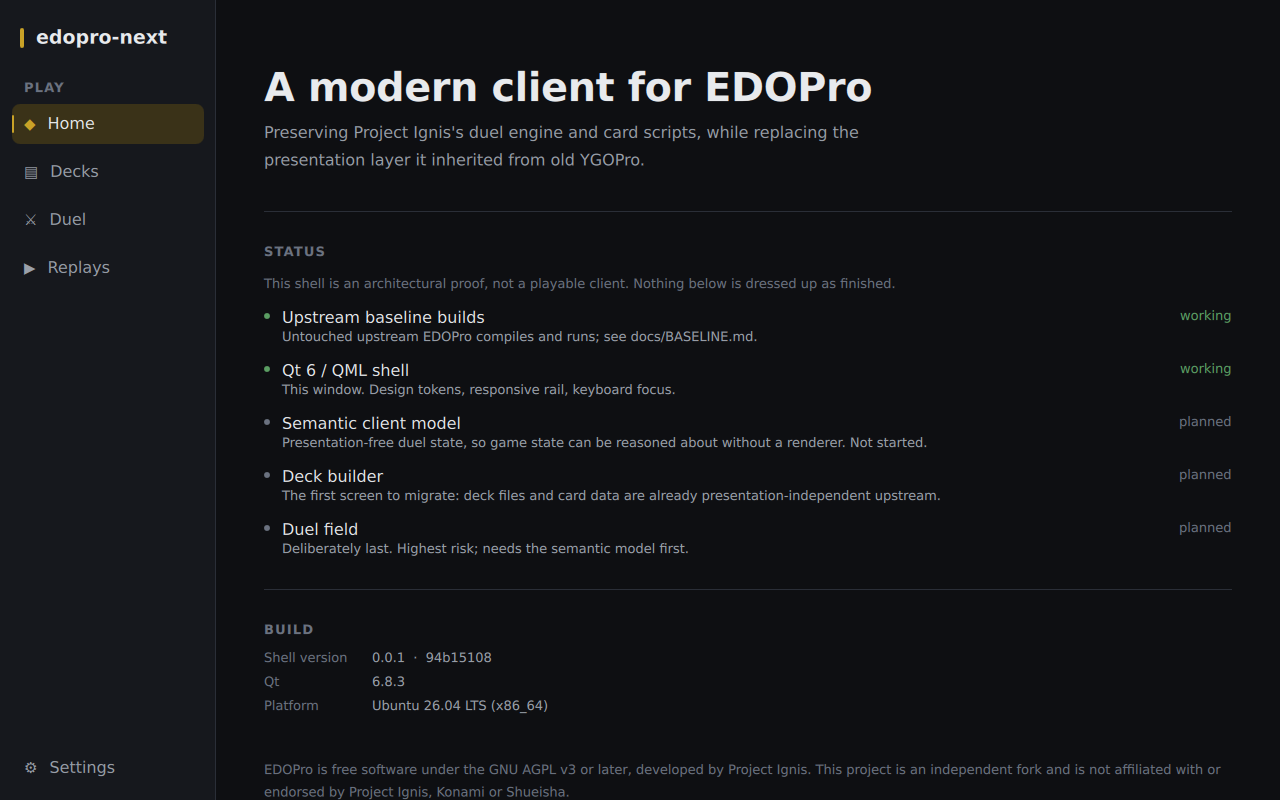
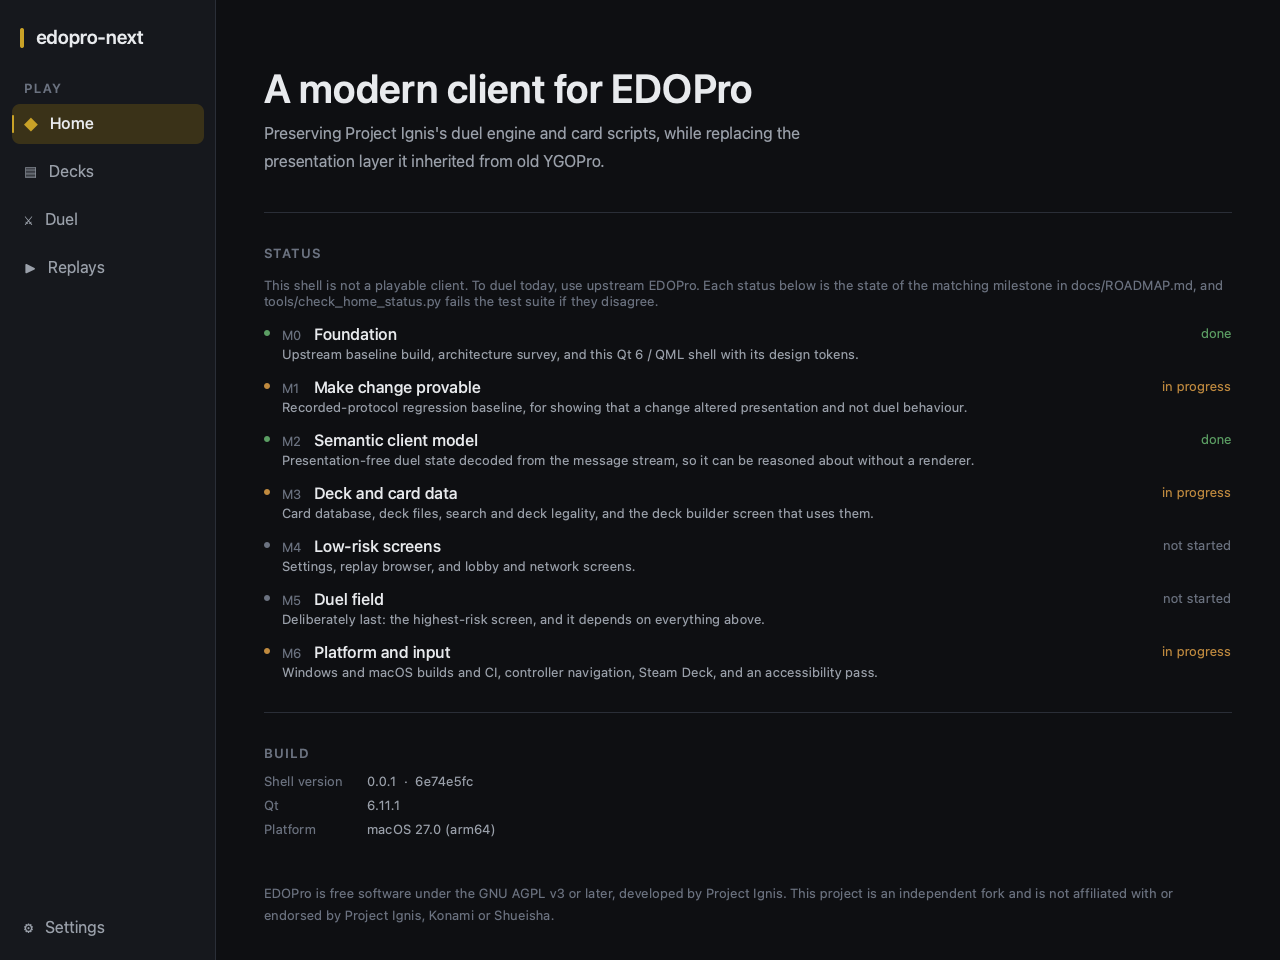
docs: replace the stale shell screenshot and say what it shows
shell.png is a real --capture of the current shell (build 6e74e5fc), whose
home screen now shows one roadmap-checked row per milestone. capabilities.md
drops the caveat about the old stale screen, says what the image is and what
checks the QML behind it, and states the M6 local-build vs CI split.

diff --git a/docs/capabilities.md b/docs/capabilities.md
@@ -27,23 +27,27 @@ Nothing here is rounded up.
 | Real upstream `.ydk` interoperability proof | ✅ **Working** | a `.ydk` from this project's own `save_ydk()` loads through the real, preserved `DeckManager::LoadDeckFromFile()`, against synthetic committed-safe data; format/loader level only, not upstream's GUI or file-picker path — [design](architecture/ydk-interoperability.md) |
 | Deck builder UI | 🔶 **Core working** | search, explicit Main/Extra/Side editing, `.ydk` open/save, over a tested Qt adapter; no legality, no artwork, no full keyboard/controller parity — [design](architecture/deck-builder-ui.md) |
 | Duel field | ⬜ Not started | deliberately last |
-| Windows / macOS builds | 🔶 **Built locally, not in CI** | Windows 11 / MSVC: all four modules (`client/`, `data/`, `policy/`, `ui/`) configure, build under `-DEDOPRO_NEXT_WERROR=ON` and pass CTest — [brief 005](briefs/archive/005-2026-08-31-windows-msvc-build.md). macOS / Apple clang: `client/`, `data/` and `policy/` build and pass; `ui/` could not be configured there because the machine has no Qt — [brief 007](briefs/archive/007-2026-09-01-apple-clang-build.md), [`state.md`](state.md) ("Local toolchain"). Neither is in the active CI (Linux-only), and the roadmap still lists platform builds and CI under M6 as not started |
+| Windows / macOS builds | 🔶 **Built locally, not in CI** | Windows 11 / MSVC: all four modules (`client/`, `data/`, `policy/`, `ui/`) configure, build under `-DEDOPRO_NEXT_WERROR=ON` and pass CTest — [brief 005](briefs/archive/005-2026-08-31-windows-msvc-build.md). macOS / Apple clang: `client/`, `data/` and `policy/` build and their CTest suites pass; `ui/` on macOS has no recorded evidence, because the machine had no Qt — [brief 007](briefs/archive/007-2026-09-01-apple-clang-build.md), [`state-history.md`](state-history.md) ("Local toolchain, as last exercised"). Neither platform is in the active CI, which is Linux-only; the roadmap records the local builds as done and Windows/macOS CI as not started, which makes M6 in progress |
 
-## The shell, as first captured
+## The shell
 
 A real screenshot of the compiled application — not a mockup.
 
 <div align="center">
-<img src="assets/shell.png" alt="The edopro-next Qt/QML shell: navigation rail, home screen with honest project status, and live build metadata" width="88%">
+<img src="assets/shell.png" alt="The edopro-next Qt/QML shell's home screen as captured at the build named below: navigation rail, one status row per roadmap milestone, and live build metadata" width="88%">
 </div>
 
-<div align="center"><sub>Captured from the running binary via <code>--capture</code> (build <code>94b15108</code>, 2026-08-24). Two of the five status rows say <em>working</em> and three say <em>planned</em>.</sub></div>
+<div align="center"><sub>Captured from the running binary (build <code>6e74e5fc</code>, macOS 27.0 arm64, Qt 6.11.1, offscreen platform, 1280&times;960 window) with <code>QT_QPA_PLATFORM=offscreen edopro_next_shell --capture shell.png --capture-width 1280 --capture-height 960</code>. The window is taller than the shell's 1280&times;800 default so that the whole home screen, build metadata and licence notice included, is in frame.</sub></div>
 
-Two caveats. The screenshot's caption on the old landing page said "four of five
-subsystems say planned"; the image itself shows three. And its status rows are
-hard-coded in [`ui/qml/screens/HomeScreen.qml`](../ui/qml/screens/HomeScreen.qml), which
-has not changed since the shell was first committed (`git log -- ui/qml/screens/HomeScreen.qml`
-lists one commit). Its "Semantic client model: planned" and "Deck builder: planned" rows
-therefore no longer match the roadmap, where the semantic client model (M2) is done and a
-deck-builder core exists. Treat the image as a record of the first shell, not of current
-status.
+The home screen shows one status row per roadmap milestone, in the roadmap's own
+vocabulary (`done`, `in progress`, `not started`). The words are typed into
+[`ui/qml/screens/HomeScreen.qml`](../ui/qml/screens/HomeScreen.qml), because the compiled
+shell cannot read `docs/` at run time, so they are checked instead:
+[`tools/check_home_status.py`](../tools/check_home_status.py), run by the Python test suite
+in CI, fails when a row's milestone, title or status disagrees with
+[`ROADMAP.md`](ROADMAP.md), when a milestone has no row, or when a row's free text states
+a status of its own.
+
+That check covers the QML, not the image. The screenshot is a snapshot of the screen at
+the build named above and is not regenerated when the roadmap moves, so if it ever
+disagrees with the roadmap, the roadmap wins and the image is stale.
